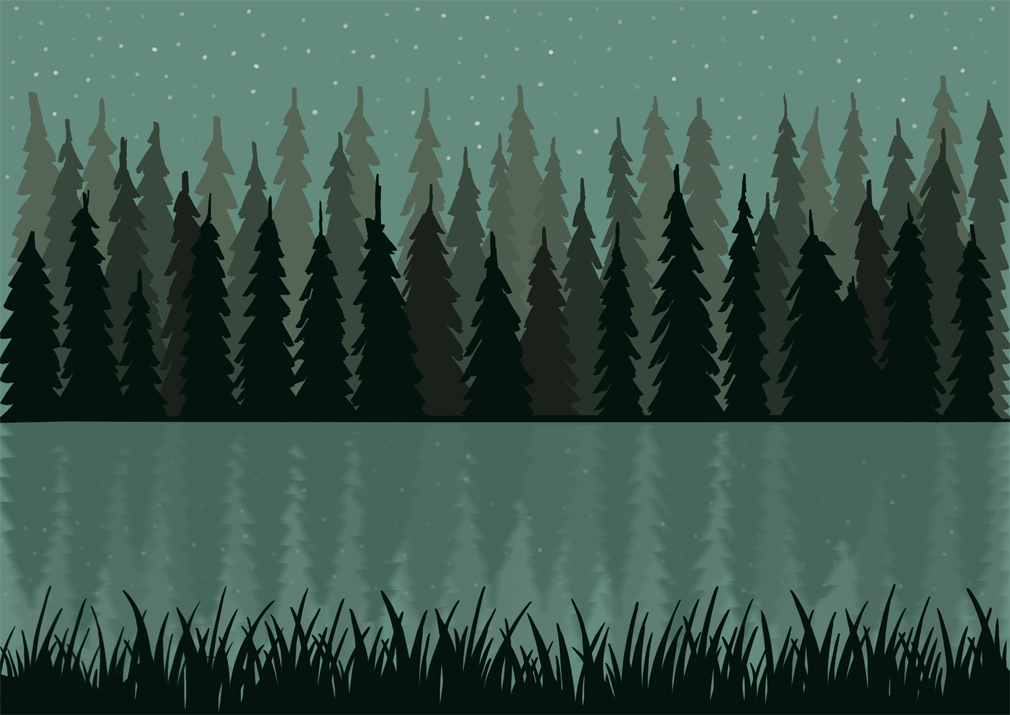
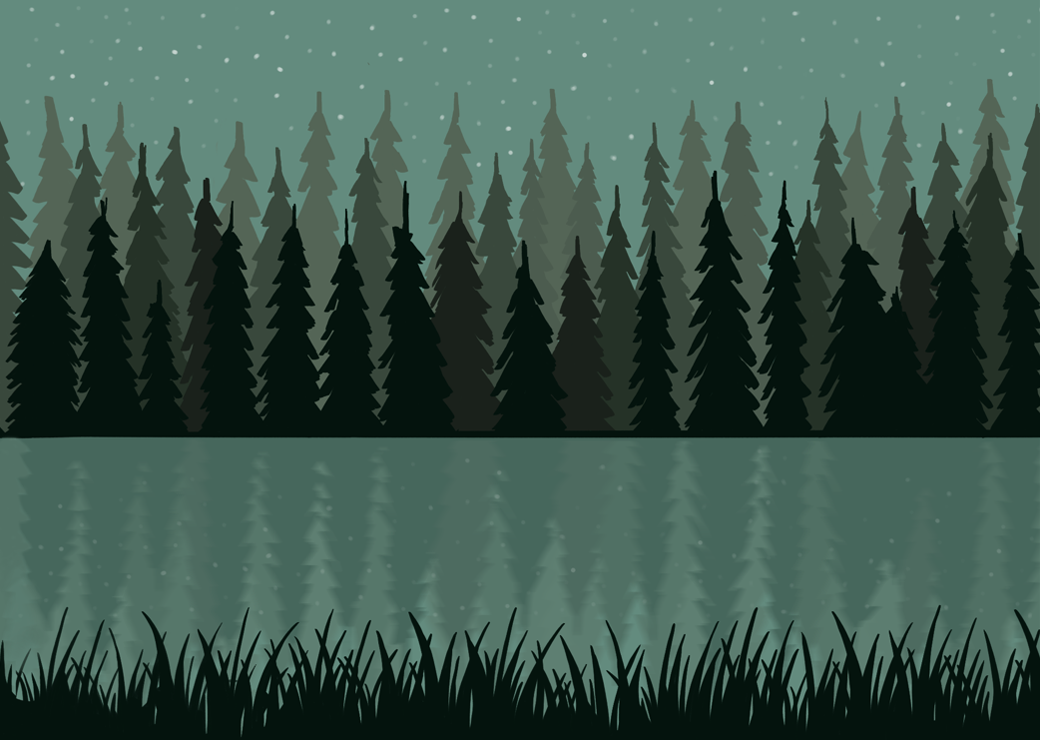
Fixed a gap in background image

Changed region(s): [[0.0, 0.0923, 1.0, 0.8], [0.0, 0.8, 1.0, 0.9846]]

diff --git a/script.js b/script.js
@@ -32,8 +32,8 @@ document.getElementById("soundBtn").muted = true;
 //Game Variables// 
 //Scrolling Background//
 let canvas;
-let canvasWidth = 1010;
-let canvasHeight = 715;
+let canvasWidth = 1040;
+let canvasHeight = 740;
 let context;
 const windowWidth = window.innerWidth;
 
@@ -80,7 +80,6 @@ let score = 0;
 
 //Game Functions//
 function checkMobile() {
-    console.log(windowWidth)
 if  (windowWidth < 1000) {
     return true;
 } else {
@@ -151,6 +150,7 @@ function update() {
         spiritImg.src = "./img/spirit-dead.png";
         context.drawImage(spiritImg, spirit.x, spirit.y, spirit.width, spirit.height);     
         obstacleArray = [];
+        score = 0;
       }
     } 
        
